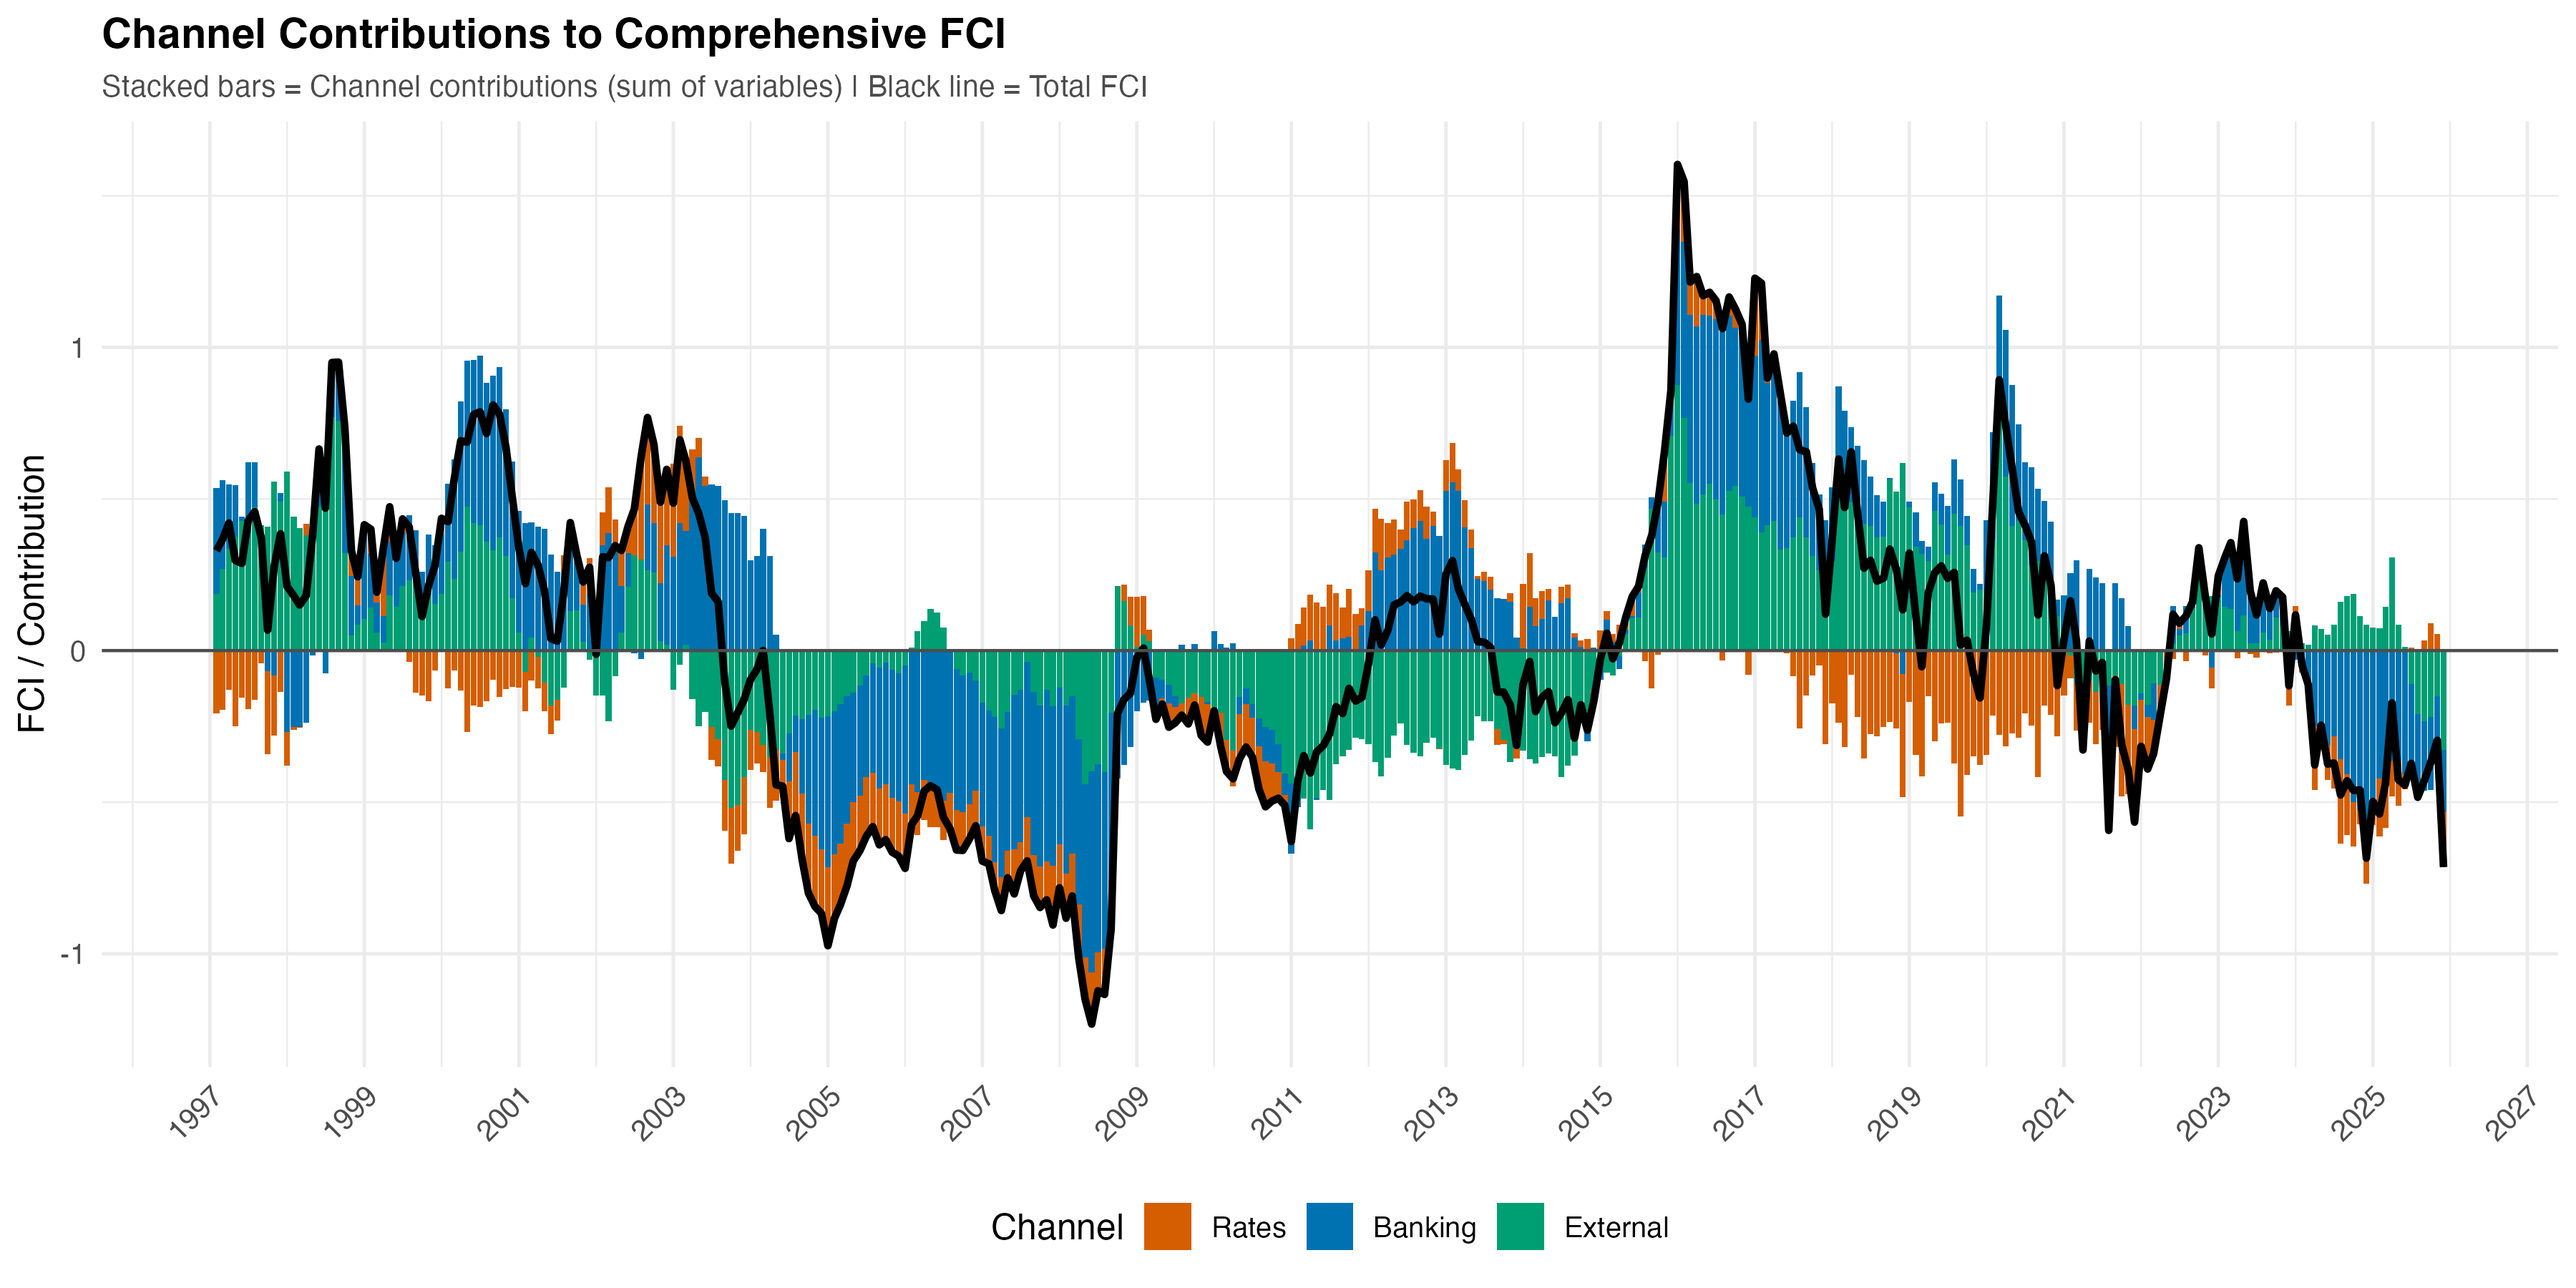
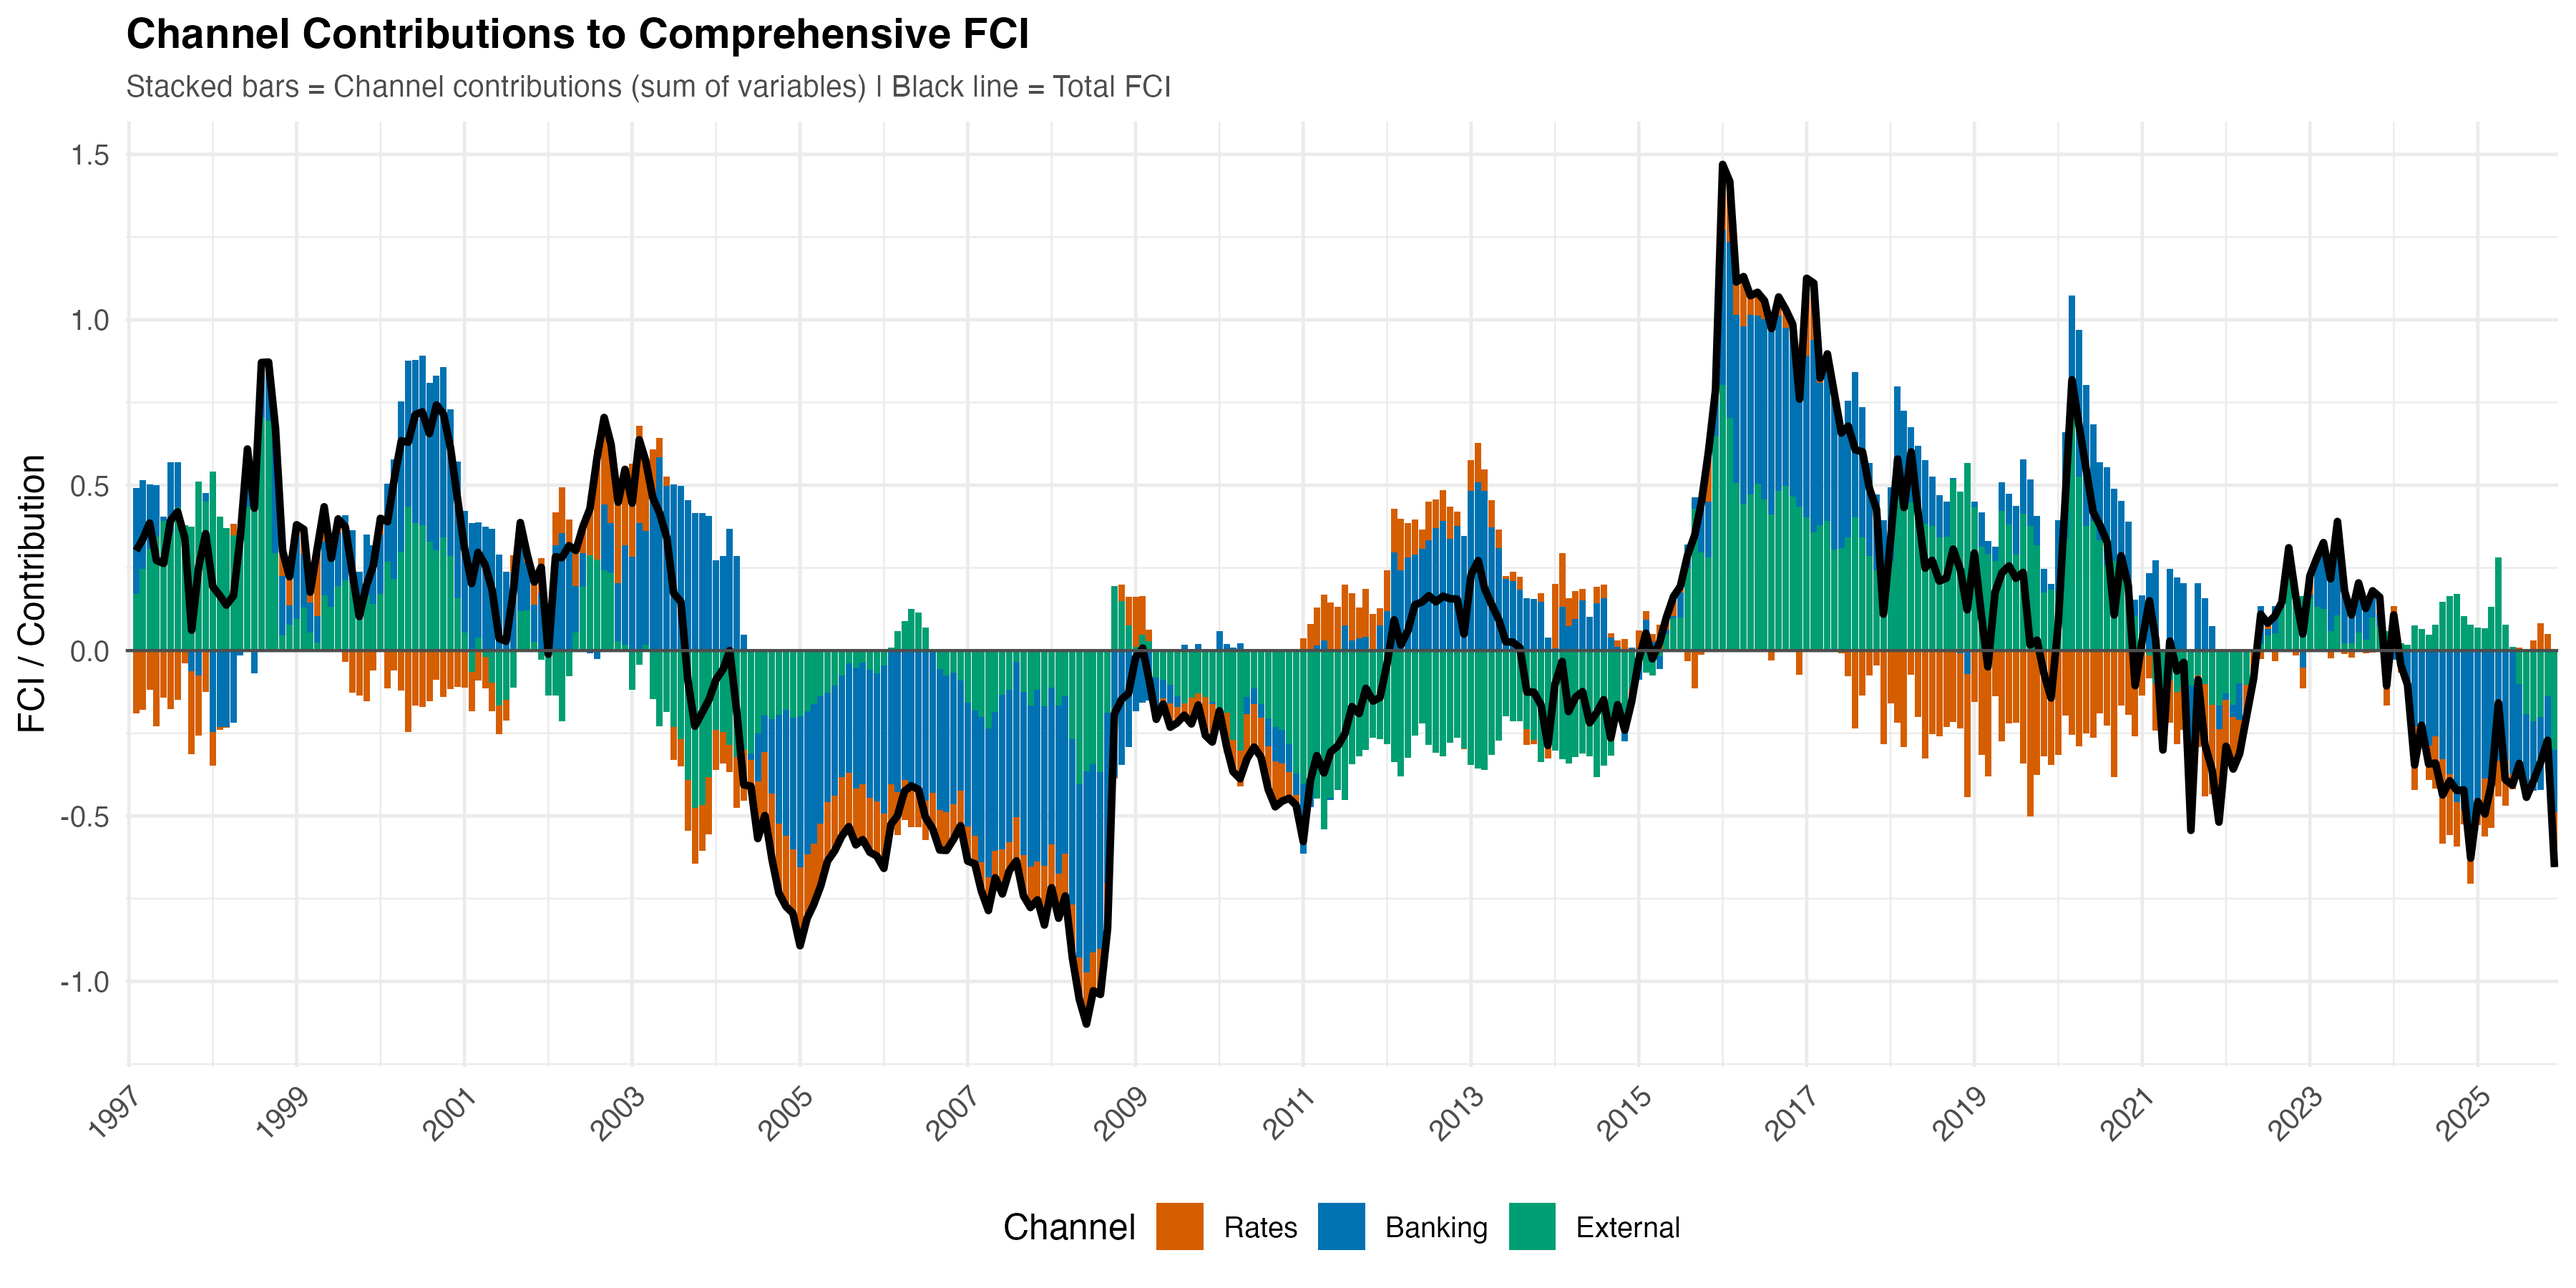
Fix figure labels and regen FCI channel plot
Refine figure labeling and regenerate corrected appendix plot. Changes: (1) R/61_Submission_Figure9_DesignAligned.R: rename group/panel wording to "export-oriented" and update explanatory comments to match Section 5.3/Table 7. (2) Add R/72_Regen_FigureA2.R: new script to regenerate output/png/09_FCI_Channel_Contributions_Integral.png; fixes two defects in the original pipeline (ggplot axis expansion causing a spurious 2027 tick and an incorrect divisor that used 11 instead of 12), validates against archived FCI z-score, and writes a corrected PNG. (3) README_REPLICATION.md: update instructions, figure counts, verification metrics, and manifest entries to reflect moved/renamed exhibits and added appendix tables. (4) docs/transmission_diagram.svg: text and numeric tweaks (key-insight wording and several corrected effect sizes). (5) Updated raster outputs: output/png/09_FCI_Channel_Contributions_Integral.png and output/png/transmission_diagram.png replaced with regenerated images.

diff --git a/README_REPLICATION.md b/README_REPLICATION.md
@@ -47,14 +47,14 @@ pandoc Response_to_Reviewers_DRAFT.md \
 
 Four details are load-bearing and easy to get wrong:
 
-- **Run pandoc from `output/reports/`, never from the repository root.** The appendix embeds 17 figures via `../../output/png/...` relative paths. From the root none of them resolve, and pandoc *succeeds silently*: the result is a 66-page, 289 KB PDF with every figure missing instead of the correct 79-page, 4.86 MB file. Check the page count **and** the file size after every appendix rebuild.
+- **Run pandoc from `output/reports/`, never from the repository root.** The appendix embeds 18 figures via `../../output/png/...` and `../submission/...` relative paths. From the root none of them resolve, and pandoc *succeeds silently*: the result is a 66-page, 289 KB PDF with every figure missing instead of the correct 79-page, 4.86 MB file. Check the page count **and** the file size after every appendix rebuild.
 - **Do not pass `--toc`.** The source carries its own hand-written Contents table; `--toc` adds a second, generated one and inflates the document by ~3 pages.
 - **`-V fontsize=11pt` is required.** Omitting it silently falls back to 10pt (leading 12.0 pt instead of 13.6 pt) and changes the pagination.
 - **`-V geometry:margin=1in` is required.** Without it the `article` defaults give a much narrower text block.
 
-The YAML `header-includes` block at the top of the `.md` (`\usepackage[labelformat=empty]{caption}`) is picked up automatically and must be preserved.
+The YAML `header-includes` block at the top of the `.md` is picked up automatically and must be preserved. It now carries `\usepackage{float}` and `\floatplacement{figure}{H}` as well as `\usepackage[labelformat=empty]{caption}`: pinning figures in place prevents a float from drifting across a section boundary (Figure M.1 previously migrated into Appendix N in the typeset output, splitting Table N.3). Note that `placeins` is *not* available in the TinyTeX distribution used here; `float` is.
 
-Verification: the appendix should build to **letter size, ~79 pages and >4 MB** (66 pages / <300 KB means the figures did not resolve --- see the working-directory item above) and the response letter to **~11 pages**, with `pdfinfo` reporting `Creator: LaTeX via pandoc` / `Producer: xdvipdfmx`. Rebuilding the frozen V2 sources (`output/archive/IREF_V2_2026-07-17/`) with these commands reproduces both shipped V2 PDFs with byte-identical text layers (66 and 16 pages) — use that as a regression check if the settings are ever in doubt.
+Verification: the appendix should build to **letter size, ~92 pages and >4.5 MB** (a page count in the 60s with <300 KB means the figures did not resolve --- see the working-directory item above) and the response letter to **~9 pages**, with `pdfinfo` reporting `Creator: LaTeX via pandoc` / `Producer: xdvipdfmx`. Rebuilding the frozen V2 sources (`output/archive/IREF_V2_2026-07-17/`) with these commands reproduces both shipped V2 PDFs with byte-identical text layers (66 and 16 pages) — use that as a regression check if the settings are ever in doubt.
 
 The stale `private/Response_to_Reviewers_DRAFT.tex` and `.log` are leftovers from an earlier build path and are not used; the `.md` is the single source.
 
@@ -69,7 +69,7 @@ All bootstrap and permutation results are seeded for exact reproducibility:
 
 ## 4. Exhibit-to-script manifest (main text)
 
-Verified against the compiled manuscript on 25 July 2026: **10 tables, 6 figures**. (Earlier versions of this manifest listed 11 tables and 7 figures with shifted figure numbers; corrected here.) Note that the submission PNG filenames are not in exhibit order.
+Verified against the compiled manuscript on 29 July 2026: **8 tables, 4 figures**. (Earlier versions of this manifest listed 10 tables and 6 figures, and included a Conley--Hansen--Rossi bounds figure that has since moved to the online appendix; corrected here.) Note that the submission PNG filenames are not in exhibit order.
 
 | Exhibit | Content | Script(s) | Key outputs |
 |---|---|---|---|
@@ -80,12 +80,11 @@ Verified against the compiled manuscript on 25 July 2026: **10 tables, 6 figures
 | Table 5 | Candidate-instrument screening | `18_FCI_Improved_IV_LP.R` | `IV_First_Stage_Battery.csv` |
 | Table 6 | Aligned reduced form, AR sets, bootstrap (FCI_IV) | `56_Aligned_Identification_Chain.R`, `59_Aligned_HAC_AR.R` | `Rev_Aligned_ReducedForm.csv`, `Rev_Aligned_HAC_AR.csv`, `Rev_Aligned_RF_Bootstrap.csv` |
 | Table 7 | Bank-level within-cell estimates, exposure gradient, matched VIX placebo and difference test (**Driscoll–Kraay declared primary**) | `31`–`33`, `48`, `64` | `Micro_DesignA_Main.csv`, `Micro_Split_WCB.csv`, `Micro_Gradient_*.csv`, `Micro_VIXGradient_*.csv`, `Micro_Gradient_DXY_vs_VIX_Diff.csv` |
-| Table 8 | Sectoral output responses + group tests (Panel B) | `27_FCI_Published_Quarterly_LP.R`, `63_Sectoral_Group_Wald.R`, **`67_Sector_Group_Wald_OneSided.R`** | `Output_Puzzle_Quarterly_Transmission.csv`, `Rev_Sector_Group_Wald.csv`, `Rev_Sector_Group_Wald_OneSided.csv` |
+| Table 8 | Group-level sectoral tests (finance-dependent vs insulated) | `27_FCI_Published_Quarterly_LP.R`, `63_Sectoral_Group_Wald.R`, **`67_Sector_Group_Wald_OneSided.R`** | `Output_Puzzle_Quarterly_Transmission.csv`, `Rev_Sector_Group_Wald.csv`, `Rev_Sector_Group_Wald_OneSided.csv` |
 | Figure 1 | Composite FCI with stress episodes | `62_Submission_Figure1.R` | `Figure_1.png` |
 | Figure 2 | Credit IRFs (primary one-sided + composite) | `60_Submission_Figure3_TwoPanel.R` | `Figure_3.png` |
-| Figure 3 | Conley–Hansen–Rossi bounds (aligned index) | `56` (breakdown), `49` Part 5 (joint bootstrap) | `Rev_Aligned_CHR_Breakdown.csv`, `Rev_CHR_Calibration_JointBootstrap.csv`, `Figure_7.png` |
-| Figure 4 | Bank-level currency-composition margin (Driscoll–Kraay primary bands) | `61_Submission_Figure9_DesignAligned.R` | `Figure_9.png` |
-| Figure 5 | Component-exclusion ladder | `42_FCI_Component_Exclusion.R` | `Figure_10.png` |
+| Figure 3 | Bank-level currency-composition margin (Driscoll–Kraay primary bands) | `61_Submission_Figure9_DesignAligned.R` | `Figure_9.png` |
+| Figure 4 | Component-exclusion ladder | `42_FCI_Component_Exclusion.R` | `Figure_10.png` |
 
 **Relocated to the online appendix in the round-17 revision** (the manuscript no longer carries these as main-text exhibits):
 
@@ -93,6 +92,10 @@ Verified against the compiled manuscript on 25 July 2026: **10 tables, 6 figures
 |---|---|---|---|
 | Table N.6a | FCI x ToT interaction — predetermined state (was main-text Table 9) | `66_Submission_Figure5_Predetermined.R` | `Rev_ToT_Interaction_BothStates.csv` |
 | Figure N.2 | ToT marginal effects — predetermined state (was main-text Figure 5) | `66_Submission_Figure5_Predetermined.R` | `Rev_Marginal_Effects_Predetermined.csv`, `Figure_5.png` |
+| Table E.0d | Pointwise **and simultaneous (sup-$t$)** bands, h = 1--18, both samples | `70_OneSided_Band_SDs_CurrencyTest.R` | `Rev_OneSided_Profile_Band.csv` |
+| Table E.3c | Full-sample stacked MN-vs-USD currency difference | `70_OneSided_Band_SDs_CurrencyTest.R` | `Rev_Currency_Equality_Test.csv` |
+| Tables K.5b(i)--(ii) | Persistence-matched candidate screening (3 transformations x 2 lag conventions x 7 candidates) | `69_Screening_Transformation_Matched.R` | `Rev_Screening_RankSummary.csv`, `Rev_Screening_TransformationMatched.csv` |
+| Table O.4a, DK column | Driscoll--Kraay p-values for the split rows (primary convention) | `71_Split_Sample_DK.R` | `Micro_DesignC_Split_DK.csv` |
 | Table F.8e | Group-equality test under the one-sided timing standard | **`67_Sector_Group_Wald_OneSided.R`** | `Rev_Sector_Group_Wald_OneSided.csv` |
 | Appendix A | FCI descriptive moments (were Table 2 columns) | `01_FCI_Complete.R` | `FCI_Complete_Results.csv` |
 | Appendix F | Descriptive individual-sector rows (were Table 10 Panel A) | `27_FCI_Published_Quarterly_LP.R` | `Output_Puzzle_Quarterly_Transmission.csv` |
